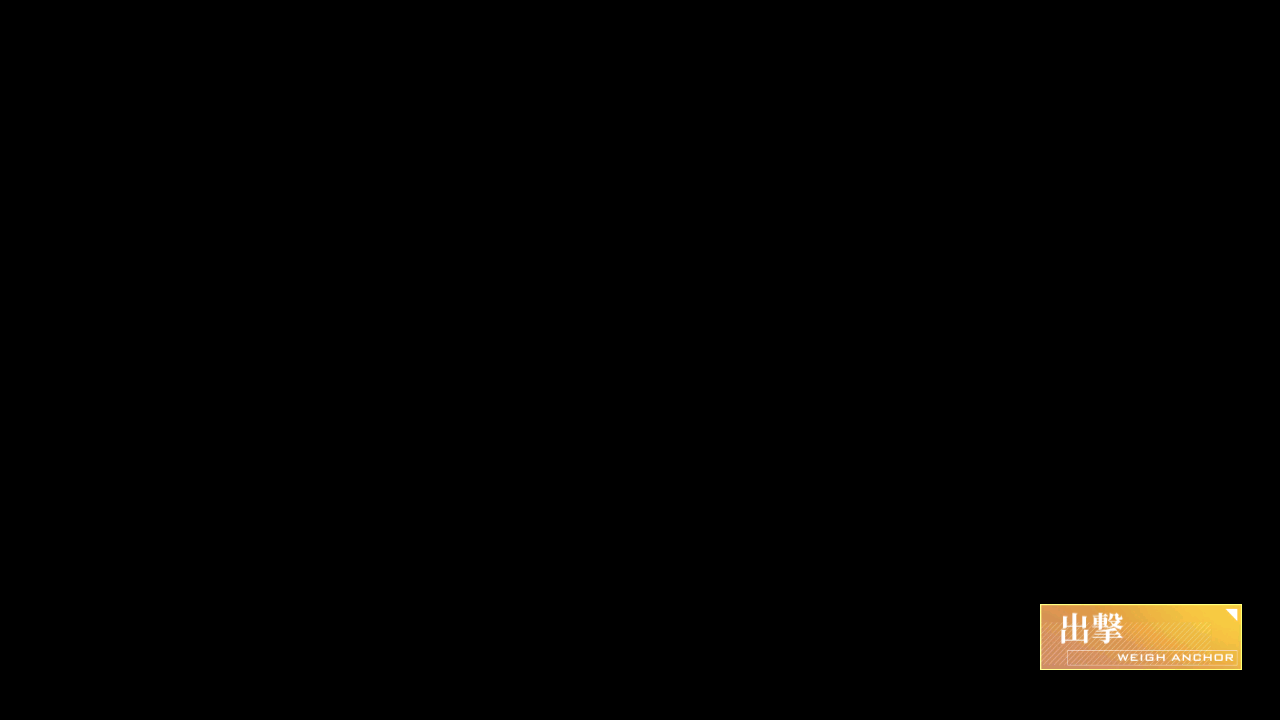
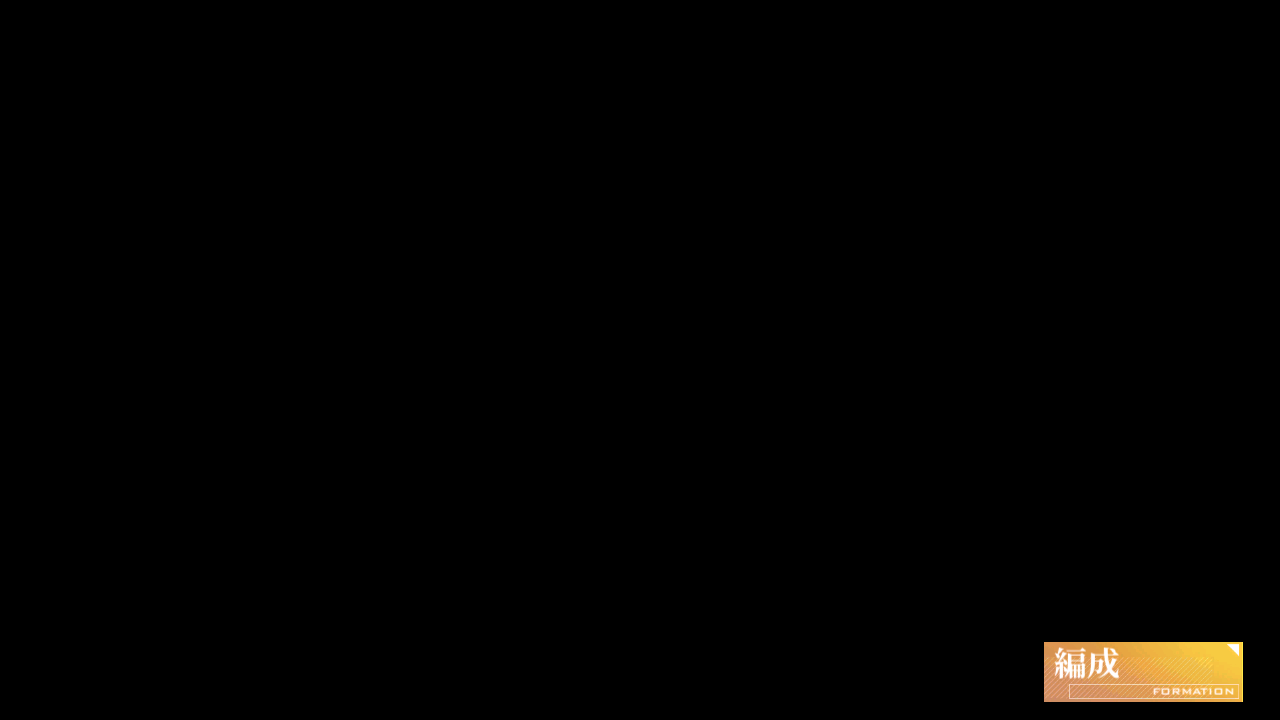
Fix: [JP] Fleet_check asset

Changed region(s): [[0.8125, 0.825, 0.9688, 0.9778]]

diff --git a/module/ui/assets.py b/module/ui/assets.py
@@ -35,7 +35,7 @@ DORM_TROPHY_CONFIRM = Button(area={'cn': (590, 473, 690, 508), 'en': (589, 470, 
 EVENT_CHECK = Button(area={'cn': (123, 63, 206, 109), 'en': (123, 63, 206, 109), 'jp': (123, 63, 206, 109), 'tw': (123, 63, 206, 109)}, color={'cn': (88, 104, 138), 'en': (88, 104, 138), 'jp': (88, 104, 138), 'tw': (88, 104, 138)}, button={'cn': (123, 63, 206, 109), 'en': (123, 63, 206, 109), 'jp': (123, 63, 206, 109), 'tw': (123, 63, 206, 109)}, file={'cn': './assets/cn/ui/EVENT_CHECK.png', 'en': './assets/en/ui/EVENT_CHECK.png', 'jp': './assets/jp/ui/EVENT_CHECK.png', 'tw': './assets/tw/ui/EVENT_CHECK.png'})
 EVENT_LIST_CHECK = Button(area={'cn': (123, 15, 232, 39), 'en': (123, 15, 223, 39), 'jp': (122, 14, 233, 39), 'tw': (123, 15, 232, 39)}, color={'cn': (151, 166, 206), 'en': (109, 122, 163), 'jp': (86, 96, 131), 'tw': (151, 166, 206)}, button={'cn': (123, 15, 232, 39), 'en': (123, 15, 223, 39), 'jp': (122, 14, 233, 39), 'tw': (123, 15, 232, 39)}, file={'cn': './assets/cn/ui/EVENT_LIST_CHECK.png', 'en': './assets/en/ui/EVENT_LIST_CHECK.png', 'jp': './assets/jp/ui/EVENT_LIST_CHECK.png', 'tw': './assets/tw/ui/EVENT_LIST_CHECK.png'})
 EXERCISE_CHECK = Button(area={'cn': (1065, 340, 1204, 382), 'en': (1078, 343, 1190, 382), 'jp': (1063, 339, 1205, 382), 'tw': (1066, 342, 1203, 381)}, color={'cn': (129, 166, 220), 'en': (138, 174, 225), 'jp': (130, 165, 219), 'tw': (138, 172, 222)}, button={'cn': (1065, 340, 1204, 382), 'en': (1078, 343, 1190, 382), 'jp': (1063, 339, 1205, 382), 'tw': (1066, 342, 1203, 381)}, file={'cn': './assets/cn/ui/EXERCISE_CHECK.png', 'en': './assets/en/ui/EXERCISE_CHECK.png', 'jp': './assets/jp/ui/EXERCISE_CHECK.png', 'tw': './assets/tw/ui/EXERCISE_CHECK.png'})
-FLEET_CHECK = Button(area={'cn': (1044, 641, 1243, 702), 'en': (1042, 640, 1244, 703), 'jp': (1040, 604, 1242, 670), 'tw': (1044, 643, 1243, 702)}, color={'cn': (237, 186, 112), 'en': (236, 187, 113), 'jp': (233, 181, 99), 'tw': (237, 187, 115)}, button={'cn': (1044, 641, 1243, 702), 'en': (1042, 640, 1244, 703), 'jp': (1040, 604, 1242, 670), 'tw': (1044, 643, 1243, 702)}, file={'cn': './assets/cn/ui/FLEET_CHECK.png', 'en': './assets/en/ui/FLEET_CHECK.png', 'jp': './assets/jp/ui/FLEET_CHECK.png', 'tw': './assets/tw/ui/FLEET_CHECK.png'})
+FLEET_CHECK = Button(area={'cn': (1044, 641, 1243, 702), 'en': (1042, 640, 1244, 703), 'jp': (1044, 642, 1243, 702), 'tw': (1044, 643, 1243, 702)}, color={'cn': (237, 186, 112), 'en': (236, 187, 113), 'jp': (234, 180, 99), 'tw': (237, 187, 115)}, button={'cn': (1044, 641, 1243, 702), 'en': (1042, 640, 1244, 703), 'jp': (1044, 642, 1243, 702), 'tw': (1044, 643, 1243, 702)}, file={'cn': './assets/cn/ui/FLEET_CHECK.png', 'en': './assets/en/ui/FLEET_CHECK.png', 'jp': './assets/jp/ui/FLEET_CHECK.png', 'tw': './assets/tw/ui/FLEET_CHECK.png'})
 GOTO_MAIN = Button(area={'cn': (1230, 17, 1253, 45), 'en': (1217, 23, 1241, 45), 'jp': (1216, 25, 1241, 45), 'tw': (1230, 17, 1253, 45)}, color={'cn': (112, 132, 159), 'en': (131, 152, 185), 'jp': (129, 150, 178), 'tw': (112, 132, 159)}, button={'cn': (1228, 18, 1255, 49), 'en': (1213, 18, 1245, 49), 'jp': (1228, 18, 1255, 49), 'tw': (1228, 18, 1255, 49)}, file={'cn': './assets/cn/ui/GOTO_MAIN.png', 'en': './assets/en/ui/GOTO_MAIN.png', 'jp': './assets/jp/ui/GOTO_MAIN.png', 'tw': './assets/tw/ui/GOTO_MAIN.png'})
 GUILD_CHECK = Button(area={'cn': (121, 15, 199, 39), 'en': (121, 15, 196, 39), 'jp': (120, 14, 201, 41), 'tw': (121, 15, 196, 39)}, color={'cn': (145, 159, 195), 'en': (116, 129, 167), 'jp': (142, 155, 190), 'tw': (116, 129, 167)}, button={'cn': (121, 15, 199, 39), 'en': (121, 15, 196, 39), 'jp': (120, 14, 201, 41), 'tw': (121, 15, 196, 39)}, file={'cn': './assets/cn/ui/GUILD_CHECK.png', 'en': './assets/en/ui/GUILD_CHECK.png', 'jp': './assets/jp/ui/GUILD_CHECK.png', 'tw': './assets/tw/ui/GUILD_CHECK.png'})
 MAIN_GOTO_BUILD = Button(area={'cn': (958, 665, 1113, 714), 'en': (962, 667, 1109, 711), 'jp': (1035, 674, 1088, 702), 'tw': (963, 671, 1091, 709)}, color={'cn': (129, 83, 76), 'en': (134, 82, 73), 'jp': (187, 131, 125), 'tw': (145, 93, 85)}, button={'cn': (958, 665, 1113, 714), 'en': (962, 667, 1109, 711), 'jp': (1035, 674, 1088, 702), 'tw': (963, 671, 1091, 709)}, file={'cn': './assets/cn/ui/MAIN_GOTO_BUILD.png', 'en': './assets/en/ui/MAIN_GOTO_BUILD.png', 'jp': './assets/jp/ui/MAIN_GOTO_BUILD.png', 'tw': './assets/tw/ui/MAIN_GOTO_BUILD.png'})

diff --git a/module/retire/assets.py b/module/retire/assets.py
@@ -32,7 +32,7 @@ SORTING_CLICK = Button(area={'cn': (1004, 14, 1096, 42), 'en': (1002, 12, 1058, 
 SORT_ASC = Button(area={'cn': (1014, 22, 1019, 26), 'en': (1014, 22, 1019, 26), 'jp': (1013, 23, 1019, 25), 'tw': (1014, 22, 1019, 26)}, color={'cn': (189, 207, 231), 'en': (189, 207, 231), 'jp': (189, 207, 231), 'tw': (189, 207, 231)}, button={'cn': (1014, 22, 1019, 26), 'en': (1014, 22, 1019, 26), 'jp': (1013, 23, 1019, 25), 'tw': (1014, 22, 1019, 26)}, file={'cn': './assets/cn/retire/SORT_ASC.png', 'en': './assets/en/retire/SORT_ASC.png', 'jp': './assets/jp/retire/SORT_ASC.png', 'tw': './assets/tw/retire/SORT_ASC.png'})
 SORT_DESC = Button(area={'cn': (1014, 29, 1019, 33), 'en': (1014, 29, 1019, 33), 'jp': (1013, 29, 1019, 32), 'tw': (1014, 29, 1019, 33)}, color={'cn': (189, 207, 231), 'en': (189, 207, 231), 'jp': (189, 207, 231), 'tw': (189, 207, 231)}, button={'cn': (1014, 29, 1019, 33), 'en': (1014, 29, 1019, 33), 'jp': (1013, 29, 1019, 32), 'tw': (1014, 29, 1019, 33)}, file={'cn': './assets/cn/retire/SORT_DESC.png', 'en': './assets/en/retire/SORT_DESC.png', 'jp': './assets/jp/retire/SORT_DESC.png', 'tw': './assets/tw/retire/SORT_DESC.png'})
 SR_SSR_CONFIRM = Button(area={'cn': (706, 463, 881, 523), 'en': (706, 463, 881, 523), 'jp': (723, 470, 870, 509), 'tw': (706, 463, 881, 523)}, color={'cn': (106, 152, 208), 'en': (106, 152, 208), 'jp': (101, 146, 203), 'tw': (106, 152, 208)}, button={'cn': (706, 463, 881, 523), 'en': (706, 463, 881, 523), 'jp': (723, 470, 870, 509), 'tw': (706, 463, 881, 523)}, file={'cn': './assets/cn/retire/SR_SSR_CONFIRM.png', 'en': './assets/en/retire/SR_SSR_CONFIRM.png', 'jp': './assets/jp/retire/SR_SSR_CONFIRM.png', 'tw': './assets/tw/retire/SR_SSR_CONFIRM.png'})
-TEMPLATE_BOGUE = Template(file={'cn': './assets/cn/retire/TEMPLATE_BOGUE.png', 'en': './assets/en/retire/TEMPLATE_BOGUE.png', 'jp': './assets/cn/retire/TEMPLATE_BOGUE.png', 'tw': './assets/tw/retire/TEMPLATE_BOGUE.png'})
-TEMPLATE_HERMES = Template(file={'cn': './assets/cn/retire/TEMPLATE_HERMES.png', 'en': './assets/en/retire/TEMPLATE_HERMES.png', 'jp': './assets/cn/retire/TEMPLATE_HERMES.png', 'tw': './assets/tw/retire/TEMPLATE_HERMES.png'})
-TEMPLATE_LANGLEY = Template(file={'cn': './assets/cn/retire/TEMPLATE_LANGLEY.png', 'en': './assets/en/retire/TEMPLATE_LANGLEY.png', 'jp': './assets/cn/retire/TEMPLATE_LANGLEY.png', 'tw': './assets/tw/retire/TEMPLATE_LANGLEY.png'})
-TEMPLATE_RANGER = Template(file={'cn': './assets/cn/retire/TEMPLATE_RANGER.png', 'en': './assets/en/retire/TEMPLATE_RANGER.png', 'jp': './assets/cn/retire/TEMPLATE_RANGER.png', 'tw': './assets/tw/retire/TEMPLATE_RANGER.png'})
+TEMPLATE_BOGUE = Template(file={'cn': './assets/cn/retire/TEMPLATE_BOGUE.png', 'en': './assets/en/retire/TEMPLATE_BOGUE.png', 'jp': './assets/jp/retire/TEMPLATE_BOGUE.png', 'tw': './assets/tw/retire/TEMPLATE_BOGUE.png'})
+TEMPLATE_HERMES = Template(file={'cn': './assets/cn/retire/TEMPLATE_HERMES.png', 'en': './assets/en/retire/TEMPLATE_HERMES.png', 'jp': './assets/jp/retire/TEMPLATE_HERMES.png', 'tw': './assets/tw/retire/TEMPLATE_HERMES.png'})
+TEMPLATE_LANGLEY = Template(file={'cn': './assets/cn/retire/TEMPLATE_LANGLEY.png', 'en': './assets/en/retire/TEMPLATE_LANGLEY.png', 'jp': './assets/jp/retire/TEMPLATE_LANGLEY.png', 'tw': './assets/tw/retire/TEMPLATE_LANGLEY.png'})
+TEMPLATE_RANGER = Template(file={'cn': './assets/cn/retire/TEMPLATE_RANGER.png', 'en': './assets/en/retire/TEMPLATE_RANGER.png', 'jp': './assets/jp/retire/TEMPLATE_RANGER.png', 'tw': './assets/tw/retire/TEMPLATE_RANGER.png'})
